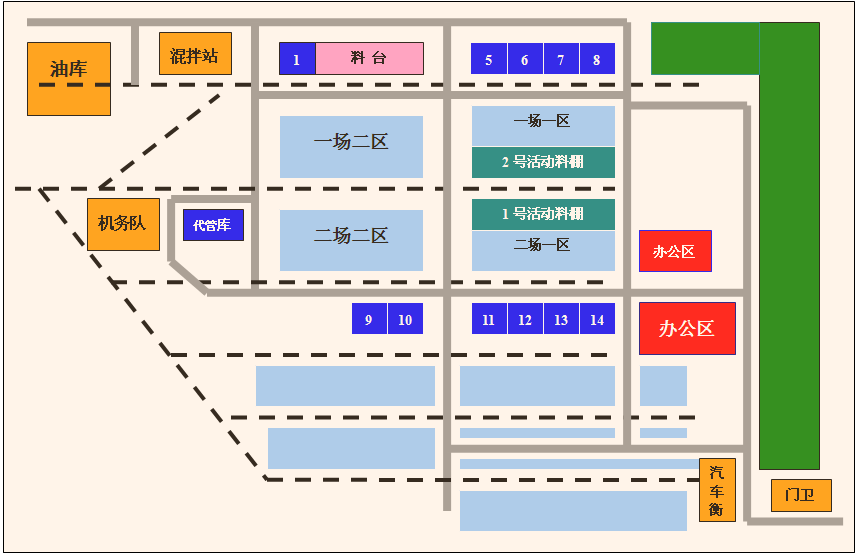
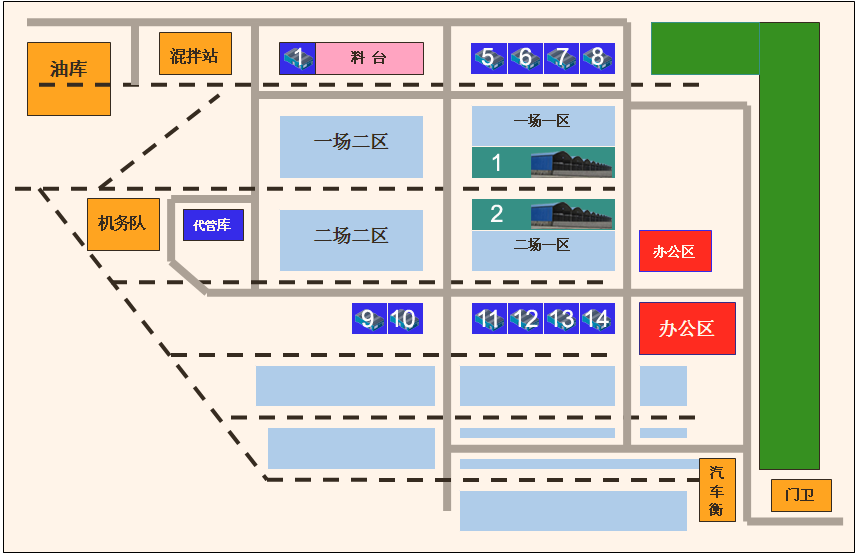
1.添加转运库展示功能

diff --git a/src/app_src/components/cangchu/kucunzhanshidetail.vue b/src/app_src/components/cangchu/kucunzhanshidetail.vue
@@ -1,5 +1,5 @@
 <template>
-  <div class="app-container calendar-list-container ">
+  <div class="app-container calendar-list-container">
     <el-dialog
       title="库存明细"
       :visible.sync="kcmxdialog"
@@ -22,46 +22,46 @@
         size="mini"
         id="table"
       >
-       <el-table-column label="状态" width="70" align="center" prop="ZT">
-            <template slot-scope="scope">
-              <img
-                v-if="scope.row.ZT==0"
-                src="../../img/blue.jpg"
-                style="width:20px;height:15px;"
-              >
-              <img
-                v-if="scope.row.ZT==1"
-                src="../../img/red.jpg"
-                style="width:20px;height:15px;"
-              >
-              <img
-                v-if="scope.row.ZT==2"
-                src="../../img/yellow.jpg"
-                style="width:20px;height:15px;"
-              >
-            </template>
-          </el-table-column>
-          <el-table-column label="工厂编号" prop="GCBH"></el-table-column>
-          <el-table-column label="物料组" prop="WLZ"></el-table-column>
-          <el-table-column label="物料编码" prop="WLBM"></el-table-column>
-          <el-table-column label="物料描述" prop="WLMS" width="300"></el-table-column>
-          <el-table-column label="计量单位" prop="JLDW" width="80"></el-table-column>
-          <el-table-column label="实存数量" prop="SCSL"></el-table-column>
-          <el-table-column label="存货状态" prop="CHZT"></el-table-column>
-        </el-table>
-        <div style="padding-top:3px;">
-        <img src="../../img/blue.jpg" style="width:20px;height:15px;vertical-align:middle;margin-top:-2px"><span>&nbsp;无动态（积压）</span>
-        <img src="../../img/red.jpg" style="width:20px;height:15px;vertical-align:middle;margin-top:-2px"><span>&nbsp;报废或超期</span>
-        <img src="../../img/yellow.jpg" style="width:20px;height:15px;vertical-align:middle;margin-top:-2px"><span>&nbsp;有保存期限&nbsp;&nbsp;&nbsp;&nbsp;&nbsp;&nbsp;其他为正常</span>
-        </div>
+        <el-table-column label="状态" width="70" align="center" prop="ZT">
+          <template slot-scope="scope">
+            <img v-if="scope.row.ZSTATUS==0" src="../../img/blue.jpg" style="width:20px;height:15px;" />
+            <img v-if="scope.row.ZSTATUS=='04'" src="../../img/red.jpg" style="width:20px;height:15px;" title="积压" />
+            <img v-if="scope.row.ZSTATUS==2" src="../../img/yellow.jpg" style="width:20px;height:15px;" />
+          </template>
+        </el-table-column>
+        <el-table-column label="工厂编号" prop="WERKS" width="80"></el-table-column>
+        <el-table-column label="物料组" prop="MATKL" width="100"></el-table-column>
+        <el-table-column label="物料编码" prop="MATNR"></el-table-column>
+        <el-table-column label="物料描述" prop="MAKTX" width="300"></el-table-column>
+        <el-table-column label="计量单位" prop="MEINS" width="80"></el-table-column>
+        <el-table-column label="实存数量" prop="GESME" width="80"></el-table-column>
+        <el-table-column label="存货状态" prop="ZSTATUS" width="80"></el-table-column>
+      </el-table>
+      <div style="padding-top:3px;">
+        <img
+          src="../../img/blue.jpg"
+          style="width:20px;height:15px;vertical-align:middle;margin-top:-2px"
+        />
+        <span>&nbsp;无动态（积压）</span>
+        <img
+          src="../../img/red.jpg"
+          style="width:20px;height:15px;vertical-align:middle;margin-top:-2px"
+        />
+        <span>&nbsp;报废或超期</span>
+        <img
+          src="../../img/yellow.jpg"
+          style="width:20px;height:15px;vertical-align:middle;margin-top:-2px"
+        />
+        <span>&nbsp;有保存期限&nbsp;&nbsp;&nbsp;&nbsp;&nbsp;&nbsp;其他为正常</span>
+      </div>
       <div class="pagination-container" style="text-align:center;">
         <el-pagination
           background
           @size-change="handleSizeChange"
           @current-change="handleCurrentChange"
-          :current-page="listQuery.page"
+          :current-page="1"
           :page-sizes="[10,20,30,40]"
-          :page-size="listQuery.limit"
+          :page-size="10"
           layout="total, sizes, prev, pager, next, jumper"
           :total="total"
         ></el-pagination>
@@ -71,100 +71,24 @@
 </template>
 
 <script>
+import { GetStatusDetail } from "@/app_src/api/cangchu/KCZS/ZXK";
 export default {
   name: "kucunzhanshidetail",
+  props: ["kcmxdialogVisible"],
   data() {
     return {
       kcmxdialog: false,
       tableKey: 0,
-      total: 5,
-      list: [
-        {
-          ZT: 0,
-          GCBH: "C27D",
-          WLZ: "36010101",
-          WLBM: "10003153483",
-          WLMS: "台式机 戴尔 7050MT Intel i7 7700 3.6G",
-          JLDW: "吨",
-          SCSL: 20,
-          CHZT: "已上架",
-          KCDD: "中心库"
-        },
-        {
-          ZT: 3,
-          GCBH: "C27C",
-          WLZ: "36010101",
-          WLBM: "10003153483",
-          WLMS: "台式机 戴尔 Optiplex 7050MT (i7-7700 3.6GHz*⑴",
-          JLDW: "吨",
-          SCSL: 10,
-          CHZT: "已上架",
-          KCDD: "转运库"
-        },
-        {
-          ZT: 1,
-          GCBH: "C274",
-          WLZ: "17021117",
-          WLBM: "10001506386",
-          WLMS: "氯化钾",
-          JLDW: "吨",
-          SCSL: 50,
-          CHZT: "已上架",
-          KCDD: "中心库"
-        },
-        {
-          ZT: 3,
-          GCBH: "C27D",
-          WLZ: "12020611",
-          WLBM: "11002298694",
-          WLMS: "水解聚丙烯腈铵盐",
-          JLDW: "吨",
-          SCSL: 30,
-          CHZT: "已上架",
-          KCDD: "港东器材库"
-        },
-        {
-          ZT: 2,
-          GCBH: "C27C",
-          WLZ: "12020612",
-          WLBM: "C271",
-          WLMS: "高压水井阀门",
-          JLDW: "吨",
-          SCSL: 20,
-          CHZT: "已上架",
-          KCDD: "中心库"
-        },
-        {
-          ZT: 0,
-          GCBH: "C274",
-          WLZ: "12020612",
-          WLBM: "11001999718",
-          WLMS: "钻井液用树脂",
-          JLDW: "吨",
-          SCSL: 20,
-          CHZT: "已上架",
-          KCDD: "中心库"
-        },
-        {
-          ZT: 3,
-          GCBH: "C274",
-          WLZ: "17020202",
-          WLBM: "11000857869",
-          WLMS: "烧碱",
-          JLDW: "吨",
-          SCSL: 20,
-          CHZT: "已上架",
-          KCDD: "中心库"
-        }
-      ],
+      total: 0,
+      list: [],
       listQuery: {
         page: 1,
-        limit: 10
+        limit: 10,
+        LGPLA:"",
       },
       listLoading: false
     };
   },
-  props: ["kcmxdialogVisible"],
   methods: {
     CloseDialog() {
       this.$emit("listenToChildEvent", false);
@@ -177,18 +101,48 @@ export default {
         return "el-button--primary is-active"; // 'warning-row'
       } // 'el-button--primary is-plain'// 'warning-row'
       return "";
-    }
+    },
+    getValue(val){
+      this.listQuery.LGPLA=val;
+    },
+    getList(){
+       GetStatusDetail(this.listQuery).then(response => {
+        if (response.data.code === 2000) {
+          this.list = response.data.items;
+           this.total = response.data.total; 
+        }
+        else{
+          this.$notify({
+            position: "bottom-right",
+            title: "失败",
+            message: response.data.message,
+            type: "error",
+            duration: 2000
+          });
+        }
+      });
+    },
+    handleSizeChange(val) {
+      this.listQuery.limit = val;
+      console.log(val);
+      this.getList();
+    },
+    handleCurrentChange(val) {
+      this.listQuery.page = val;
+      this.getList();
+    },
   },
   watch: {
     kcmxdialogVisible(val) {
       this.kcmxdialog = val; //新增result的watch，监听变更并同步到myResult上
-     // var aa=document.querySelectorAll('.el-dialog__header');
+      // var aa=document.querySelectorAll('.el-dialog__header');
       // aa[0].style.background="#C0C0C0";
     }
+  },
+  mounted(){
+    //this.getList();
   }
- 
 };
 </script>
 <style  lang="scss" scoped>
-   
 </style>

diff --git a/src/app_src/views/cangchu/KCZS/ZYK.vue b/src/app_src/views/cangchu/KCZS/ZYK.vue
@@ -27,7 +27,7 @@
       <area shape="rect" coords="545, 304, 581, 334" title="13号库" @click="OpenDialog('ZYK',13)" />
       <area shape="rect" coords="583, 304, 619, 334" title="14号库" @click="OpenDialog('ZYK',14)" />
     </map>-->
-
+    
     <div class="box" id="box">
       <img
         id="ZYCPIC"
@@ -38,24 +38,24 @@
         class="ZYCPIC"
       />
       <map name="planetmap" id="planetmap">
-        <area shape="rect" coords="280, 43, 316, 76" title="1号库" @click="OpenDialog('ZYK',1)" />
+        <area shape="rect" coords="280, 43, 316, 76" title="1号库" @click="OpenDialog('ZYK','01')" />
         <area
           shape="rect"
           coords="474, 200, 617, 230"
           title="1号活动料棚"
           @click="OpenDialog('ZYK',1.1)"
         />
-        <area shape="rect" coords="473, 148, 617, 179" title="2号活动料棚" @click="OpenDialog('ZYK',2)" />
-        <area shape="rect" coords="473, 44, 509, 75" title="5号库" @click="OpenDialog('ZYK',5)" />
-        <area shape="rect" coords="511, 44, 547, 75" title="6号库" @click="OpenDialog('ZYK',6)" />
-        <area shape="rect" coords="549, 44, 580, 75" title="7号库" @click="OpenDialog('ZYK',7)" />
-        <area shape="rect" coords="582, 44, 616, 75" title="8号库" @click="OpenDialog('ZYK',8)" />
-        <area shape="rect" coords="352, 304, 387, 334" title="9号库" @click="OpenDialog('ZYK',9)" />
-        <area shape="rect" coords="389, 304, 424, 334" title="10号库" @click="OpenDialog('ZYK',10)" />
-        <area shape="rect" coords="473, 304, 507, 334" title="11号库" @click="OpenDialog('ZYK',11)" />
-        <area shape="rect" coords="509, 304, 543, 334" title="12号库" @click="OpenDialog('ZYK',12)" />
-        <area shape="rect" coords="545, 304, 581, 334" title="13号库" @click="OpenDialog('ZYK',13)" />
-        <area shape="rect" coords="583, 304, 619, 334" title="14号库" @click="OpenDialog('ZYK',14)" />
+        <area shape="rect" coords="473, 148, 617, 179" title="2号活动料棚" @click="OpenDialog('ZYK','02')" />
+        <area shape="rect" coords="473, 44, 509, 75" title="5号库" @click="OpenDialog('ZYK','05')" />
+        <area shape="rect" coords="511, 44, 547, 75" title="6号库" @click="OpenDialog('ZYK','06')" />
+        <area shape="rect" coords="549, 44, 580, 75" title="7号库" @click="OpenDialog('ZYK','07')" />
+        <area shape="rect" coords="582, 44, 616, 75" title="8号库" @click="OpenDialog('ZYK','08')" />
+        <area shape="rect" coords="352, 304, 387, 334" title="9号库" @click="OpenDialog('ZYK','09')" />
+        <area shape="rect" coords="389, 304, 424, 334" title="10号库" @click="OpenDialog('ZYK','10')" />
+        <area shape="rect" coords="473, 304, 507, 334" title="11号库" @click="OpenDialog('ZYK','11')" />
+        <area shape="rect" coords="509, 304, 543, 334" title="12号库" @click="OpenDialog('ZYK','12')" />
+        <area shape="rect" coords="545, 304, 581, 334" title="13号库" @click="OpenDialog('ZYK','13')" />
+        <area shape="rect" coords="583, 304, 619, 334" title="14号库" @click="OpenDialog('ZYK','14')" />
       </map>
       <div name="1号区域">
         <img
@@ -344,7 +344,21 @@
         />
       </div>
     </div>
-    <kucunzhanshidetail :kcmxdialogVisible="kcmxDialog" @listenToChildEvent="closeDialog"></kucunzhanshidetail>
+    <div >
+       <img
+        id="ZYCPIC"
+        src="../../../img/库房2.png"
+        border="0"
+        class="kufang"
+      />库房
+      <img
+        id="ZYCPIC"
+        src="../../../img/料棚.png"
+        border="0"
+        class="liaopeng"
+      />料棚
+    </div>
+    <kucunzhanshidetail :kcmxdialogVisible="kcmxDialog" @listenToChildEvent="closeDialog" ref="kucunzhanshidetail" ></kucunzhanshidetail>
   </div>
 </template>
 
@@ -362,6 +376,7 @@ export default {
       listQuery: {
         FacCode: this.FacCode
       },
+      statusCode:"",
       StatusStr: ""
     };
   },
@@ -384,7 +399,11 @@ export default {
       });
     },
     OpenDialog(type, val) {
+      
+      this.statusCode=this.FacCode+val;
       this.kcmxDialog = true;
+      this.$refs.kucunzhanshidetail.getValue(this.statusCode);
+      this.$refs.kucunzhanshidetail.getList();
       //console.log(type + val);
     },
     closeDialog(val) {
@@ -480,6 +499,15 @@ export default {
     //   width: 12px;
     //   height: 12px;
     // }
+  }
+  .kufang{
+    width: 55px;
+    height: 60px;
+  }
+    .liaopeng{
+    width: 70px;
+    height: 60px;
+    margin-left: 50px;
   }
 }
 </style>

diff --git a/src/app_src/api/cangchu/KCZS/ZXK.js b/src/app_src/api/cangchu/KCZS/ZXK.js
@@ -52,3 +52,10 @@ export function GetDCKInfo(query) {//总库存 资金查询
       params:query
     })
   }
+  export function GetStatusDetail(query) {//平面图状态查询
+    return request({
+      url: '/ZXK/GetStatusDetail',
+      method: 'get',
+      params:query
+    })
+  }
